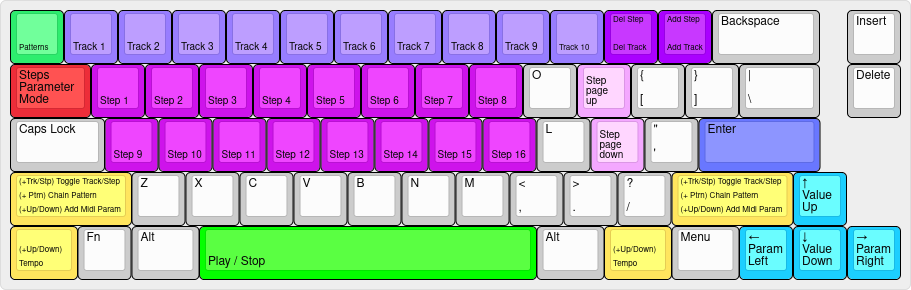
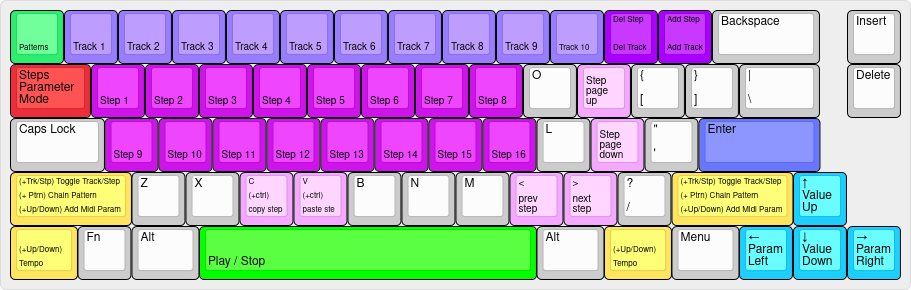
update keybindings doc

Changed region(s): [[0.2459, 0.5897, 0.3996, 0.7759], [0.5532, 0.5897, 0.6762, 0.7759]]

diff --git a/README.md b/README.md
@@ -111,6 +111,8 @@ For qwerty keyboards, here's the default mapping:
  - `!` `@` `#` `$` `%` `^` `&` `*` `(` `)` **toggle track**
  - `q` `w` `e` `r` `t` `y` `u` `i` `q` `s` `d` `f` `g` `h` `j` `k` **select step** or **switch to pattern**
  - `Q` `W` `E` `R` `T` `Y` `U` `I` `Q` `S` `D` `F` `G` `H` `J` `K` **toggle step** or **chain pattern**
+ - `,` **next step**
+ - `.` **previous step**
  - `=` **add track**
  - `-` **remove track**
  - `+` **add step** to the selected track
@@ -119,6 +121,8 @@ For qwerty keyboards, here's the default mapping:
  - `;` **page down** either steps or patterns if more than 16 items
  - `shift`+`up` **increase tempo**
  - `shift`+`down` **decrease tempo**
+ - `ctrl`+`c` **copy selected step**
+ - `ctrl`+`v` **paste selected step**
  - `ctrl`+`up` **add new midi control** to the selected track
  - `ctrl`+`down` **remove midi control**. It will remove the selected one
  - `enter` **validate selection**
@@ -127,7 +131,7 @@ For qwerty keyboards, here's the default mapping:
  - `up` **increase selected parameter value**
  - `down` **decrease selected parameter value**
  - `?` **show help**
- - `escape` or `ctrl`+`c` **quit**
+ - `escape` or `ctrl`+`q` **quit**
 
 ### Patterns management
 
